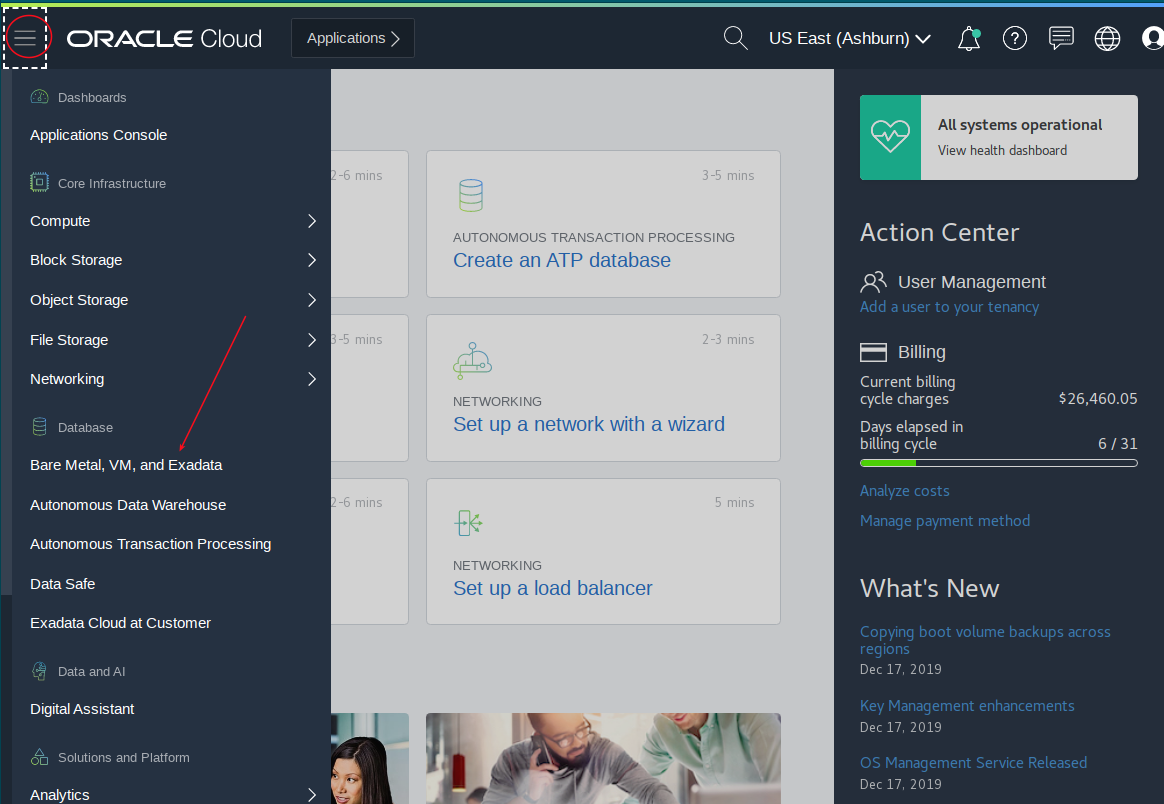
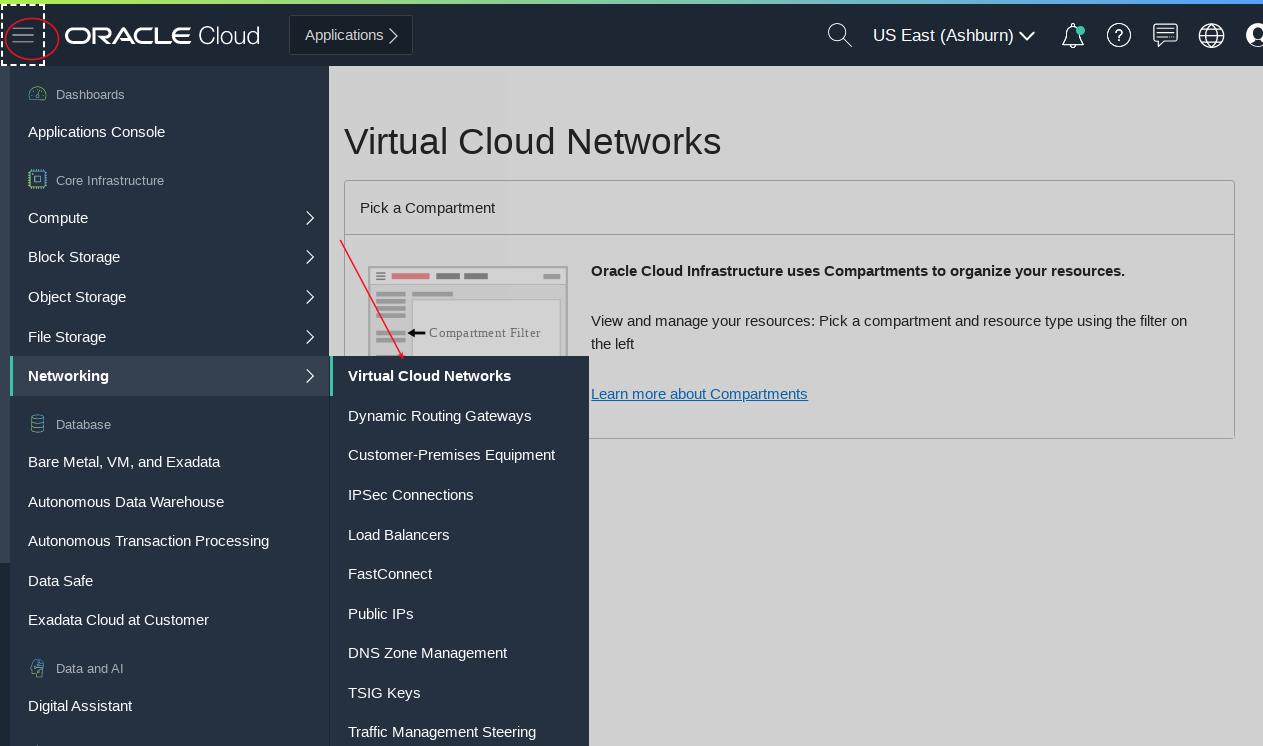
updates

diff --git a/workshops/dbcs-dba-oci/SG-100.md b/workshops/dbcs-dba-oci/SG-100.md
@@ -8,6 +8,8 @@ This lab will walk you through creating a virtual cloud network, a new Marketpla
 
 **Note:  It will be helpful to have a notepad open as a holding place to copy and paste various items throughout all the labs.** 
 
+***YOUR FIRST STEP WILL BE TO CREATE A COMPARTMENT (CONTAINER FOR ALL YOUR SERVCICES).  IF THIS IS A SHARED ACCOUNT/TENANCY AND OTHERS ARE ALSO RUNNING THE WORKSHOP YOU NEED TO ASSIGN A SEQUENTIAL NUMBER TO EACH PARTICIPANT AND LABEL YOUR COMPARTMENT ACCORDINGLY (EG: workshop1...workshop2...workshop3...).  ALSO BE MINDFUL THAT DIFFERENT ACCOUNTS HAVE DIFFERENT SERVICE LIMITS AND YOU MUST STAY WITHIN THOSE LIMITS BY REGION.***
+
 To log issues and view the Lab Guide source, go to the [github oracle](https://github.com/oracle/learning-library/tree/master/workshops/dbcs-dba-oci) repository.
 
 ## Objectives
@@ -24,7 +26,7 @@ To log issues and view the Lab Guide source, go to the [github oracle](https://g
 
 ## Lab Steps
 
-### **STEP 1**:  Log into your Oracle Cloud Account and Review the Console
+### **STEP 1**:  Log into your Oracle Cloud Account, Review the Console, and Create a Workshop Compartment
 
 - Go to [the Oracle Cloud Console](https://www.oracle.com/cloud/sign-in.html)
 
@@ -36,13 +38,47 @@ To log issues and view the Lab Guide source, go to the [github oracle](https://g
 
 	![](images/IL-100/004.png)
 
--	Return to the menu in the upper left and select `Bare Metal, VM, and Exadata`.  Note that the menu options have changed to show OCI native services (Gen 2 Cloud).
+- Return to the menu in the upper left and select `Identity` and then `Compartments`.  Then select the root compartment.
+
+	![](images/IL-100/013.png)
+
+- Select `Create Compartment`.
+
+	![](images/IL-100/014.png)
+
+- Enter your assigned participant number in the workshop name (eg: `workshop1....or workshop2...etc.`)
+
+	![](images/IL-100/015.png)
+
+-  **All the services you create henceoforth will be in your assigned compartment.**
+
+### **STEP 2**:  Create a Virtual Cloud Network (VCN)
+
+- Return to the menu in the upper left and select `Networking` and then `Virtual Cloud Networks`.  
 
 	![](images/IL-100/005.png)
 
-- Take note of the compartment (root compartment by default) and the region.  You can use the defaults for your tenancy.  In this case the labs have been developed using the `Test` compartment and the `Phonenix` region.  Compartments are very useful for segregating content developed by different development teams and users.  They can be secured and assigned permissions appropriate to those using them.  If you expect to see services but don't see them check the compartment and region - they might be in different ones.  If you create a service in the wrong compartment you can either delete it or move it.  If it is in the wrong region you will need to delete and re-create the service.  In some cases different services need to be co-located in a region.
+- Note that the menu options have changed to show OCI native services (Gen 2 Cloud).Take note of the compartment (root compartment by default) and the region.  You can use the defaults for your tenancy.  In this case the labs have been developed using the `Test` compartment and the `Phonenix` region.  Compartments are very useful for segregating content developed by different development teams and users.  They can be secured and assigned permissions appropriate to those using them.  If you expect to see services but don't see them check the compartment and region - they might be in different ones.  If you create a service in the wrong compartment you can either delete it or move it.  If it is in the wrong region you will need to delete and re-create the service.  In some cases different services need to be co-located in a region.
 
-### **STEP 2**:  Create a Virtual Cloud Network (VCN)
+	![](images/IL-100/006.png)
+
+- Select `Networking Quickstart`.
+
+	![](images/IL-100/007.png)
+
+- Select `Start Workflow`.
+
+	![](images/IL-100/008.png)
+
+- Enter the following details.  ***Note: IF YOU ARE RUNNING THIS WORKSHOP WITH OTHERS ENSURE YOU SELECT THE NUMBER ASSIGNED TO YOU (1 IN THIS CASE).***
+
+	![](images/IL-100/009.png)
+
+	![](images/IL-100/010.png)
+
+	![](images/IL-100/011.png)
+
+	![](images/IL-100/012.png)
 
 ### **STEP 3**:  Create a Marketplace Developer Cloud Image
 
